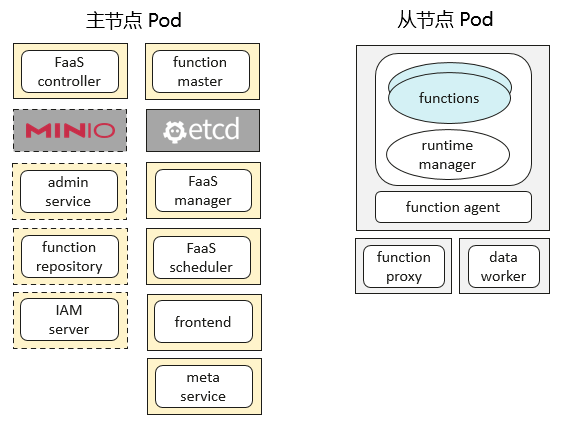
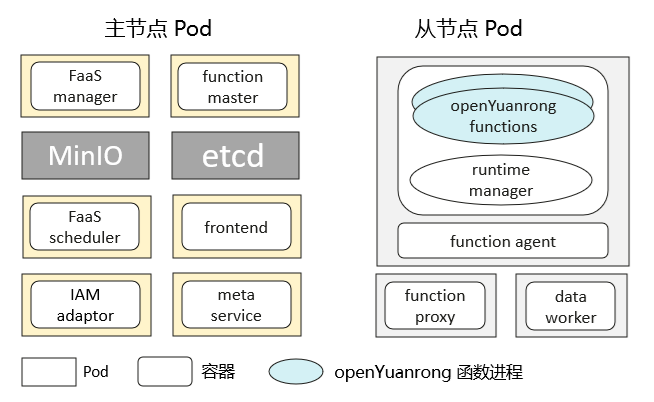
chore: 优化k8s部署章节描述

diff --git a/docs/deploy/deploy_on_k8s/production/deploy.md b/docs/deploy/deploy_on_k8s/production/deploy.md
@@ -1,21 +1,26 @@
-# 部署openYuanrong
+# 部署 openYuanrong
 
-本节介绍部署openYuanrong的流程。
+本节介绍部署 openYuanrong 的流程。
 
 (k8s-deploy-download-release-package)=
 
-## 获取发布包
+## 添加 openYuanrong 的 helm 仓库
 
-openYuanrong发布包在 [每日构建上获取](https://build-logs.openeuler.openatom.cn:38080/temp-archived/openeuler/openYuanrong/yr_daily/){target="_blank"}。根据不同的使用平台选择软件包并下载其中的 `openyuanrong-*.tar.gz` 文件即可。
+openYuanrong K8s 安装包依赖于 helm，需要添加 openYuanrong 提供的 helm 仓库地址。
 
-## 配置镜像仓
+```bash
+helm repo add yr http://openyuanrong.obs.cn-southwest-2.myhuaweicloud.com/charts/
+helm repo update
+```
 
-在终端执行 `vim /etc/docker/daemon.json` 命令，增加如下文件内容，为 docker 添加openYuanrong白名单镜像仓库地址，openYuanrong组件及基础镜像存放在这里。
+## 配置 openYuanrong 的版本镜像仓库
+
+openYuanrong 版本镜像存放在私有镜像仓库上，在终端执行 `vim /etc/docker/daemon.json` 命令，新增如下内容为 docker 添加openYuanrong 白名单镜像仓库地址。
 
 ```json
 {
     "insecure-registries": [
-        "openyuanrong.obs.cn-southwest-2.myhuaweicloud.com"
+        "swr.cn-southwest-2.myhuaweicloud.com"
     ]
 }
 ```
@@ -29,30 +34,26 @@ systemctl restart docker
 
 ## 部署
 
-openYuanrong部署基于 helm 工具，按需设置好配置文件即可一键安装。
+在任意 K8s 节点上使用 helm 命令部署 openYuanrong。
+
+```bash
+helm pull --untar yr/openyuanrong
+cd openyuanrong
+```
 
 :::{caution}
 
-如果 集群环境中 ETCD 非全新安装，请先清理残留数据。
+如果集群环境中 etcd 非全新安装，请先清理残留数据避免部署失败。
 
 :::
 
-执行如下命令解压发布包：
-
-```bash
-tar -zxf openyuanrong-*.tar.gz -C .
-cd openyuanrong/deploy/k8s/charts/
-```
-
-在 `openyuanrong/deploy/k8s/charts/` 目录下参考以下命令全新部署openYuanrong。如果您你已有openYuanrong集群，可直接执行 `helm upgrade yr .` 升级。
-
-- 只部署openYuanrong，不创建 Pod 资源池，需要配置 MinIO 的密码，适合自行通过[资源池管理 API](../api/meta_service/index.md) 创建资源池的场景。
+- 只部署 openYuanrong，不创建 Pod 资源池，需要配置 MinIO 的密码，适合自行通过[资源池管理 API](../api/index.md) 创建资源池的场景。
 
   ```shell
   helm install openyuanrong --set global.obsManagement.s3SecretKey=${Your Minio Password} .
   ```
 
-- 部署openYuanrong并创建默认规格为（3 核 cpu，6GB 内存）的 Pod 资源池，建议用于开发有状态函数。
+- 部署 openYuanrong 并创建默认规格为（3 核 cpu，6GB 内存）的 Pod 资源池，建议用于开发有状态函数及无状态函数。
 
   ```shell
   helm install openyuanrong --set global.obsManagement.s3SecretKey=${Your Minio Password},global.pools[0].id=default,global.pools[0].size=1,\
@@ -66,7 +67,7 @@ cd openyuanrong/deploy/k8s/charts/
   kubectl scale deployment/function-agent-default --replicas=1
   ```
 
-- 部署openYuanrong并创建默认规格为 600 毫核 cpu，512MB 内存的 Pod 资源池，建议用于开发 FaaS 函数。
+- 部署 openYuanrong 并创建默认规格为 600 毫核 cpu，512MB 内存的 Pod 资源池，建议用于开发函数服务。
 
   ```shell
   helm install openyuanrong --set global.obsManagement.s3SecretKey=${Your Minio Password},global.pools[0].id=pool-600-512-fusion,global.pools[0].size=1,\
@@ -108,13 +109,13 @@ iam-adaptor-bb5cf566-dhsvm                                        1/1     Runnin
 meta-service-587d5fc6db-p5wh7                                     1/1     Running   0          2m56s   10.42.1.216     dggphis18023   <none>           <none>
 ```
 
-openYuanrong日志默认开启并挂载到 K8s 节点上。其中 data worker 组件日志路径为 `/home/sn/datasystem/logs/`，其他组件日志路径为 `/var/paas/sys/log/cff/default/componentlogs`，函数实例 runtime 日志路径为 `/var/paas/sys/log/cff/default/servicelogs`，函数实例用户日志路径为 `/var/paas/sys/log/cff/default/processrouters/stdlogs`。如果部署失败，可通过日志分析原因。
+openYuanrong 日志默认开启并挂载到 K8s 节点上。其中 data worker 组件日志路径为 `/home/sn/datasystem/logs/`，其他组件日志路径为 `/var/paas/sys/log/cff/default/componentlogs`，函数实例 runtime 日志路径为 `/var/paas/sys/log/cff/default/servicelogs`，函数实例用户日志路径为 `/var/paas/sys/log/cff/default/processrouters/stdlogs`。如果部署失败，可通过日志分析原因。
 
 ## 自定义 Pod 资源池
 
-部署时创建的默认 Pod 资源池通常用于开发或者测试。实际生产场景中，为了更好的匹配业务工作负载，openYuanrong支持自定义 Pod 资源池。您可以通过修改 values.yaml 文件在部署时自定义 Pod 资源池，也可以通过[资源池管理 API](../api/meta_service/index.md) 动态创建，两种方式效果一致。
+部署时创建的默认 Pod 资源池通常用于开发或者测试。实际生产场景中，为了更好的匹配业务工作负载，openYuanrong 支持自定义 Pod 资源池。您可以通过修改 `values.yaml` 文件在部署时自定义 Pod 资源池，也可以通过[资源池管理 API](../api/index.md) 动态创建，两种方式效果一致。
 
-多个业务或者开发、测试等多个环境共用一套 K8s 时，您可以创建多个自定义 Pod 资源池并按业务或者环境类型打上标签，使用openYuanrong的[亲和调度策略](../../../multi_language_function_programming_interface/development_guide/scheduling/affinity.md)将函数实例指派到特定的 Pod 上，实现隔离。另外，[创建 pod 资源池 API](../api/meta_service/create_pod_pool.md) 提供了 node_selector 和 affinities 字段，原生支持 [k8s pod 亲和调度](https://kubernetes.io/zh-cn/docs/concepts/scheduling-eviction/assign-pod-node/){target="_blank"}，将创建的 Pod 指派给特定的节点。两者结合可实现更灵活的资源匹配。
+多个业务或者开发、测试等多个环境共用一套 K8s 时，您可以创建多个自定义 Pod 资源池并按业务或者环境类型打上标签，使用openYuanrong 的[亲和调度策略](../../../multi_language_function_programming_interface/development_guide/scheduling/affinity.md)将函数实例指派到特定的 Pod 上，实现隔离。另外，[创建 pod 资源池 API](../api/create_pod_pool.md) 提供了 node_selector 和 affinities 字段，原生支持 [k8s pod 亲和调度](https://kubernetes.io/zh-cn/docs/concepts/scheduling-eviction/assign-pod-node/){target="_blank"}，将创建的 Pod 指派给特定的节点。两者结合可实现更灵活的资源匹配。
 
 ## 卸载
 

diff --git a/docs/deploy/deploy_on_k8s/index.md b/docs/deploy/deploy_on_k8s/index.md
@@ -1,4 +1,4 @@
-# 在 k8s 上部署 openYuanrong 集群
+# 在 K8s 上部署 openYuanrong 集群
 
 ```{eval-rst}
 .. toctree::
@@ -6,7 +6,6 @@
    :maxdepth: 1
    :hidden:
 
-   single-node-deployment
    production/index
    api/meta_service/index
 ```
@@ -19,51 +18,62 @@ openYuanrong集群由主节点 pod 和从节点 pod 组成。
 
 ![](../../images/4bf29e7902e9a206c4a8af1bb48e4ec8_564x427.png)
 
-- 参考[快速部署](./single-node-deployment.md)，使用默认配置在单节点或多节点 Kubernetes 集群上部署openYuanrong。
-
-- 参考[生产部署](./production/index.md)，包含配置项介绍、安全、集群运维等更多内容。
+参考[生产部署](./production/index.md)，包含配置项介绍、安全、集群运维等更多内容。
 
 ### 主节点 pod
 
-主节点 pod 用于管理集群，负责全局函数调度、请求转发等工作。包含的组件有 function master、FaaS manager、FaaS scheduler、FaaS controller、fronted、meta service、admin service、IAM adaptor 及开源 MinIO、etcd。
+主节点 pod 用于管理集群，负责全局函数调度、请求转发等工作。包含的组件有 function master、FaaS manager、FaaS scheduler、fronted、meta service、IAM adaptor 及开源 MinIO、etcd。
 
 ### 从节点 pod
 
-从节点 pod 用于运行分布式任务，部署的openYuanrong组件有 function agent、function proxy、data worker 及 runtime manager。
+从节点 pod 用于运行分布式任务，部署的 openYuanrong 组件有 function agent、function proxy、data worker 及 runtime manager。
 
 ### 组件介绍
 
 - **function master**
 
   负责拓扑管理、全局函数调度、函数实例生命周期管理及 function agent 组件的扩缩容。部署形式为 [Deployment](https://kubernetes.io/zh-cn/docs/concepts/workloads/controllers/deployment/){target="_blank"}，一主多备。
+
 - **FaaS manager**
 
-  负责租约申请与回收，清理过期连接信息。它是由 FaaS controller 创建的openYuanrong系统函数。
+  负责租约申请与回收，清理过期连接信息。它是 openYuanrong 系统函数。
+
 - **FaaS scheduler**
 
-  负责 FaaS 函数的调度。它是由 FaaS controller 创建的openYuanrong系统函数。
+  负责函数服务的调度。它是 openYuanrong 系统函数。
+
 - **frontend**
 
-  提供 REST API 用于函数调用、流订阅等数据处理。它是由 FaaS controller 创建的openYuanrong系统函数。
+  提供 REST API 用于调用服务、订阅流服务等数据处理。它是 openYuanrong 系统函数。
+
 - **meta service**
 
   提供 REST API 用于函数创建、资源池创建等管理操作。部署形式为 [Deployment](https://kubernetes.io/zh-cn/docs/concepts/workloads/controllers/deployment/){target="_blank"}。
-- **meta service**
 
-  提供部署函数接口，当前仅在用命令工具 yr 部署函数时使用。可以不部署，使用 meta service 组件提供的函数管理 API 替代，该组件即将废弃。
 - **IAM adaptor**
 
   负责多租鉴权与认证。部署形式为 [Deployment](https://kubernetes.io/zh-cn/docs/concepts/workloads/controllers/deployment/){target="_blank"}，一主多备。如果无相关需求或已有认证鉴权平台，可以不部署。
+
 - **etcd**
 
   第三方开源组件，用于存储集群组件注册信息、函数元数据以及实例状态等信息。
+
 - **function proxy**
 
   负责消息转发、本地函数调度及实例生命周期管理。部署形式为 [DaemonSet](https://kubernetes.io/zh-cn/docs/concepts/workloads/controllers/daemonset/){target="_blank"}。
+
+- **function agent**
+
+  最小资源单元，负责函数代码包下载和解压、网络安全隔离配置等。部署形式为 [Deployment](https://kubernetes.io/zh-cn/docs/concepts/workloads/controllers/deployment/){target="_blank"}，它与 runtime manager 在一个 pod 内。
+
+- **runtime manager**
+
+  负责 cpu、memory 等资源采集和上报、函数进程生命周期管理等。部署形式为 [Deployment](https://kubernetes.io/zh-cn/docs/concepts/workloads/controllers/deployment/){target="_blank"}，它与 function agent 在一个 pod 内。
+
 - **data worker**
 
   提供数据对象的存取等能力。部署形式为 [DaemonSet](https://kubernetes.io/zh-cn/docs/concepts/workloads/controllers/daemonset/){target="_blank"}。
 
 ### Pod 资源池
 
-Pod 资源池用于运行函数实例，原理上基于 K8s Deployment 工作负载实现，包括 function agent 和 function manager 两个容器镜像。根据您实际业务函数需要，可以在部署时配置 Pod 资源池的 CPU、内存、副本数量等信息，也可以通过[资源池管理 API](api/meta_service/index.md) 在部署后动态创建。
+Pod 资源池用于运行函数实例，原理上基于 K8s Deployment 工作负载实现，包括 function agent 和 function manager 两个容器镜像。根据您实际业务函数需要，可以在部署时配置 Pod 资源池的 CPU、内存、副本数量等信息，也可以通过[资源池管理 API](api/index.md) 在部署后动态创建。

diff --git a/docs/deploy/deploy_on_k8s/production/prepare.md b/docs/deploy/deploy_on_k8s/production/prepare.md
@@ -1,23 +1,19 @@
 # 环境准备
 
-本节介绍openYuanrong对部署环境的要求
+本节介绍 openYuanrong 对部署环境的要求。
 
 ## 操作系统及硬件
 
-- 主机操作系统平台为 Linux X86_64 或 ARM_64
+- 主机操作系统平台为 Linux X86_64 或 ARM_64。
 - 单台主机至少有 16 个 CPU，32G 以上内存，总集群至少有 32 个 CPU，64G 以上内存。
-- 主机磁盘可用空间大于 40G，用于下载openYuanrong组件镜像
-- 主机之间通信正常，开发测试环境可以关闭防火墙规避
-
-    ```bash
-    systemctl stop firewalld
-    systemctl disable firewalld
-    ```
+- 主机磁盘可用空间大于 40G，用于下载 openYuanrong 组件镜像。
 
 ## 依赖服务
 
-- k8s 集群 及 kubectl 工具 1.19.4 及以上版本
-- MinIO 不限制版本
-- ETCD v3 版本
-- helm 工具 3.2 及以上版本，用于部署openYuanrong。参考：[环境安装](https://helm.sh/zh/docs/intro/install/){target="_blank"}
+部署 openYuanrong 前，需要先安装部署以下工具和服务。
+
+- K8s 集群 及 kubectl 工具 1.19.4 及以上版本。学习和开发可通过 [kind](https://kind.sigs.k8s.io/docs/user/quick-start/){target="_blank"} 部署，生产环境建议使用 [Kubeadm](https://kubernetes.io/docs/reference/setup-tools/kubeadm/){target="_blank"} 部署。
+- MinIO 不限制版本，部署可参考 [MinIO Kubernetes](https://minio.org.cn/docs/minio/kubernetes/upstream/){target="_blank"}。
+- ETCD v3 版本，部署可参考 [Run etcd clusters as a Kubernetes StatefulSet](https://etcd.io/docs/v3.5/op-guide/kubernetes/){target="_blank"}。
+- helm 工具 3.2 及以上版本，用于部署 openYuanrong，安装可参考 [Installing Helm](https://helm.sh/zh/docs/intro/install/){target="_blank"}。
  

diff --git a/docs/deploy/deploy_on_k8s/production/index.md b/docs/deploy/deploy_on_k8s/production/index.md
@@ -11,8 +11,8 @@
    restrictions
 ```
 
-本章节将展开介绍如何在 K8s 上部署openYuanrong生产环境。
+本章节将展开介绍如何在 K8s 上部署 openYuanrong 生产环境。
 
 - [环境准备](./prepare.md)
-- [部署openYuanrong](./deploy.md)
+- [部署 openYuanrong](./deploy.md)
 - [规格与限制](./restrictions.md)

diff --git a/docs/deploy/index.md b/docs/deploy/index.md
@@ -19,10 +19,10 @@
 
 ## 部署 openYuanrong 集群
 
-openYuanrong 支持在 Linux 主机上以进程方式部署，也支持在 Kubernetes 上以容器方式部署。您可以在单台 Linux 主机或者单节点 Kubernetes 集群上部署 openYuanrong ，用于学习和开发。生产环境中，推荐通过集群方式部署多个节点，以带来更好的性能和可靠性保障，详细介绍参考：
+openYuanrong 支持在 Linux 主机上以进程方式部署，也支持在 Kubernetes(K8s) 上以容器方式部署。您可以在单台 Linux 主机或者单节点 Kubernetes 集群上部署 openYuanrong ，用于学习和开发。生产环境中，推荐通过集群方式部署多个节点，以带来更好的性能和可靠性保障，详细介绍参考：
 
 * [在主机上部署](./deploy_processes/index.md)
-* [在Kubernetes环境上部署](./deploy_on_k8s/index.md)
+* [在 K8s 上上部署](./deploy_on_k8s/index.md)
 
 ## 部署 openYuanrong 应用
 